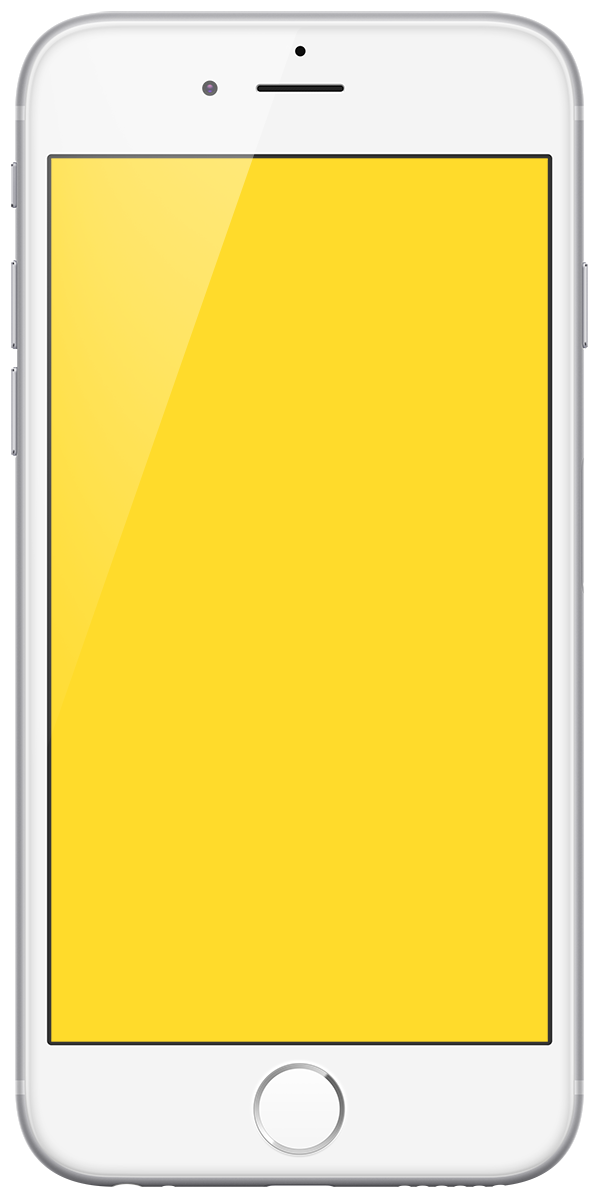
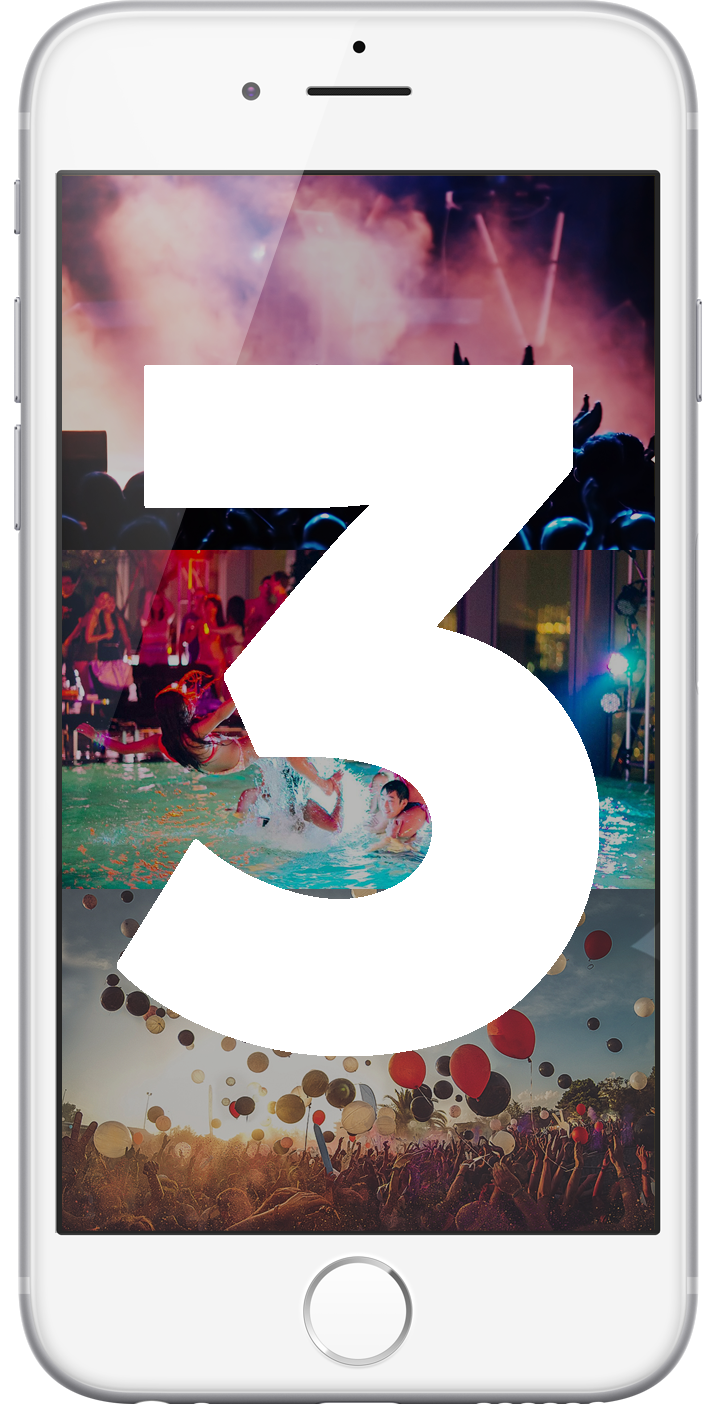
text second number

diff --git a/index.html b/index.html
@@ -99,9 +99,9 @@
   <!--container-->
   <div class="container">
     <div class="row">
-      <h2>ELLiE will pick your top</h2>
-      <div class="col-md-4">
-        <div class="slide-left feature"> <h1>3</h1>
+      <h2>ELLIE will pick your top</h2>
+      <div class="col-md-3">
+        <div class="slide-left feature"> <img src="img/feature-1.png" data-at2x="img/feature-1@2x.png" alt="feature">
         </div>
         <h2>Each time you go out!</h2>
       </div>

diff --git a/css/main.css b/css/main.css
@@ -305,6 +305,10 @@ ul.countdown li p {
 
 .feature { margin-bottom: 3em; }
 
+.feature img {
+  width: 70%;
+}
+
 .feature h1 {
   font-family: "museo-sans", sans-serif;
   font-weight: 900;
@@ -582,7 +586,7 @@ ul.countdown li p { font-size: 24px; }
   margin-right: 1em;
 }
 
-
+.features { padding: 6em 0; }
 
 .section-spacing { padding: 6em 0; }
 
